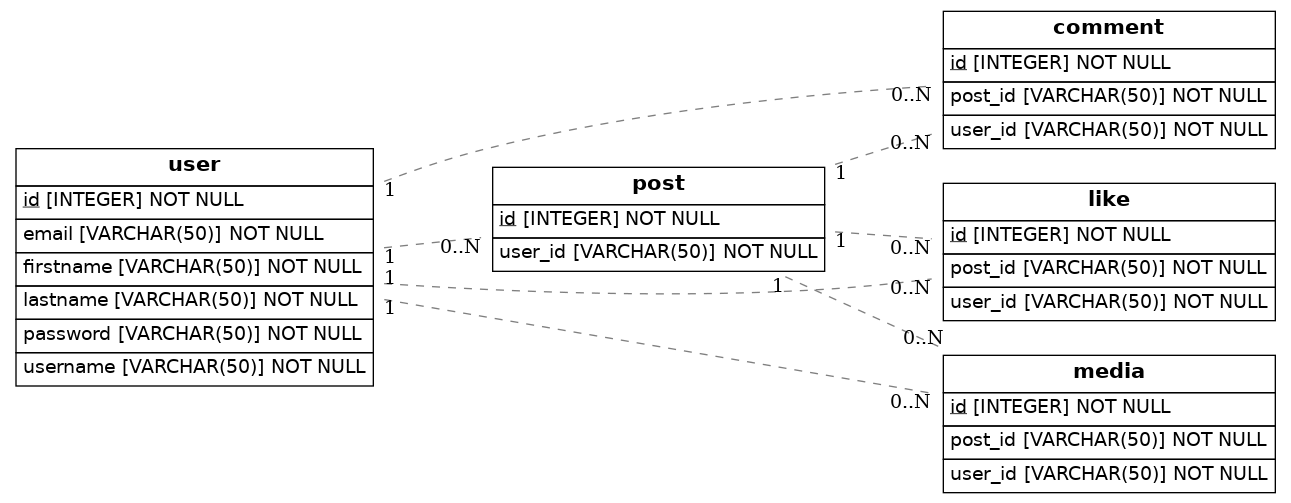
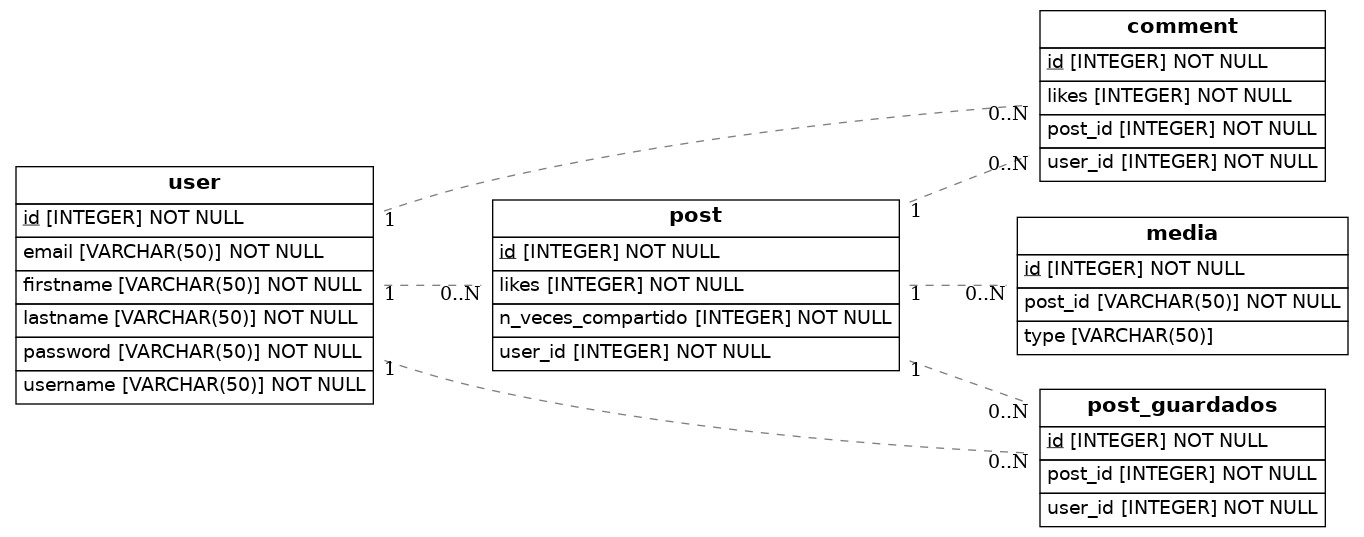
corregido errores

Changed region(s): [[0.0, 0.0, 0.9915, 0.9841]]

diff --git a/src/models.py b/src/models.py
@@ -21,25 +21,29 @@ class User(Base):
 class Post(Base):
     __tablename__ = 'post'
     id = Column(Integer, primary_key=True)
-    user_id = Column(String(50), ForeignKey('user.id'), nullable=False)
+    user_id = Column(Integer, ForeignKey('user.id'), nullable=False)
+    likes = Column(Integer, nullable=False)
+    n_veces_compartido = Column(Integer, nullable=False)
+    
 
 class Comment(Base):
     __tablename__ = 'comment'
     id = Column(Integer, primary_key=True)
-    user_id = Column(String(50), ForeignKey('user.id'), nullable=False)
-    post_id = Column(String(50), ForeignKey('post.id'), nullable=False)
+    user_id = Column(Integer, ForeignKey('user.id'), nullable=False)
+    post_id = Column(Integer, ForeignKey('post.id'), nullable=False)
+    likes = Column(Integer, nullable=False)
 
-class Like(Base):
-    __tablename__ = 'like'
+class post_guardados(Base):
+    __tablename__ = 'post_guardados'
     id = Column(Integer, primary_key=True)
-    user_id = Column(String(50), ForeignKey('user.id'), nullable=False)
-    post_id = Column(String(50), ForeignKey('post.id'), nullable=False)
+    user_id = Column(Integer, ForeignKey('user.id'), nullable=False)
+    post_id = Column(Integer, ForeignKey('post.id'), nullable=False)
 
 class Media(Base):
     __tablename__ = 'media'
     id = Column(Integer, primary_key=True)
-    user_id = Column(String(50), ForeignKey('user.id'), nullable=False)
     post_id = Column(String(50), ForeignKey('post.id'), nullable=False)
+    type = Column(String(50))
 
 
 
